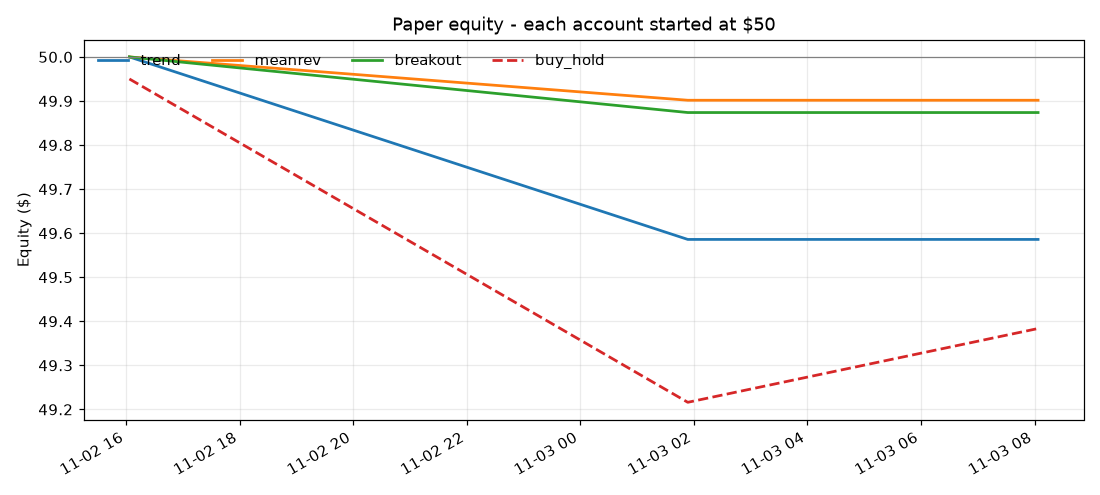
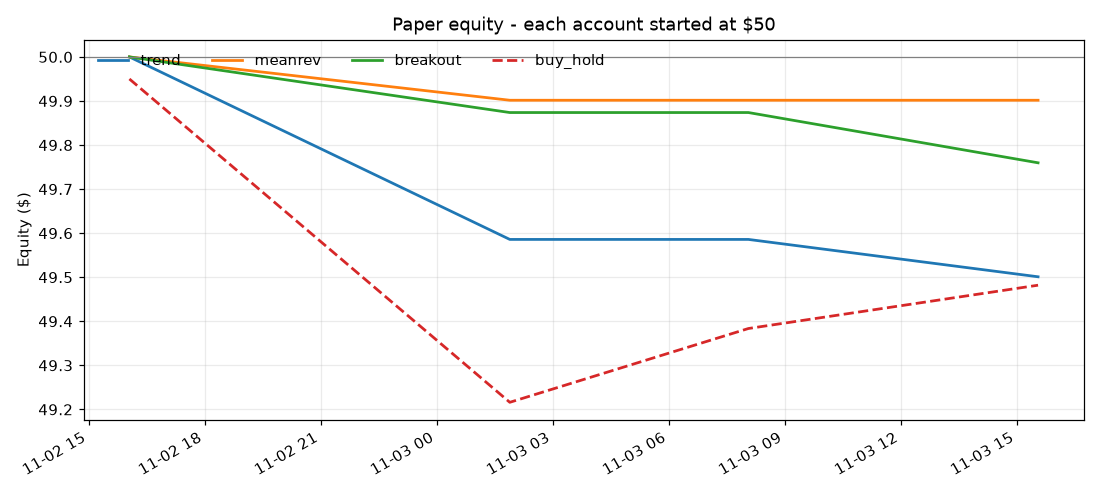
tick 10:03

diff --git a/REPORT.md b/REPORT.md
@@ -1,13 +1,13 @@
-# Crypto paper-trading trial (🟢 RUNNING - 32.0h left)
+# Crypto paper-trading trial (🟢 RUNNING - 24.5h left)
 
-Fake money, real binance_vision prices. Started **02 Nov 16:03 IST**, ends **04 Nov 16:03 IST**. Each strategy started with **$50**. Coins: BTC, ETH, SOL, XRP, DOGE on 15m candles. Fees 0.1%/side + 0.05% slippage included. Last update 03 Nov 08:03 IST (run #3).
+Fake money, real binance_vision prices. Started **02 Nov 16:03 IST**, ends **04 Nov 16:03 IST**. Each strategy started with **$50**. Coins: BTC, ETH, SOL, XRP, DOGE on 15m candles. Fees 0.1%/side + 0.05% slippage included. Last update 03 Nov 15:33 IST (run #4).
 
 | Account | Equity | P&L | Return | Trades | Win rate | Open |
 |---|---:|---:|---:|---:|---:|---:|
-| **trend** | $49.59 | $-0.41 | -0.83% | 3 | 0% | 0 |
+| **trend** | $49.50 | $-0.50 | -1.00% | 4 | 0% | 1 |
 | **meanrev** | $49.90 | $-0.10 | -0.20% | 1 | 0% | 0 |
-| **breakout** | $49.87 | $-0.13 | -0.25% | 1 | 0% | 0 |
-| *buy & hold (benchmark)* | $49.38 | $-0.62 | -1.23% | - | - | - |
+| **breakout** | $49.76 | $-0.24 | -0.48% | 2 | 0% | 0 |
+| *buy & hold (benchmark)* | $49.48 | $-0.52 | -1.04% | - | - | - |
 
 ![equity](equity.png)
 
@@ -19,12 +19,16 @@ Fake money, real binance_vision prices. Started **02 Nov 16:03 IST**, ends **04 
 
 ## Open positions
 
-None.
+| Strategy | Coin | Entry | Now | Stop | Target | Unrealized |
+|---|---|---:|---:|---:|---:|---:|
+| trend | XRP | 1.25633 | 1.2563 | 1.24988 | 1.26921 | $-0.017 |
 
 ## Last 25 closed trades
 
 | Strategy | Coin | In | Out | Entry | Exit | P&L | Why |
 |---|---|---|---|---:|---:|---:|---|
+| trend | XRP | 03 Nov 09:30 | 03 Nov 12:15 | 1.25243 | 1.24977 | $-0.068 (-0.41%) | EMA cross-down |
+| breakout | XRP | 03 Nov 10:00 | 03 Nov 10:45 | 1.25813 | 1.25201 | $-0.114 (-0.69%) | stop-loss |
 | trend | XRP | 02 Nov 19:15 | 02 Nov 19:45 | 1.26163 | 1.25246 | $-0.154 (-0.93%) | stop-loss |
 | breakout | XRP | 02 Nov 19:15 | 02 Nov 19:30 | 1.26163 | 1.25459 | $-0.126 (-0.76%) | stop-loss |
 | trend | XRP | 02 Nov 18:00 | 02 Nov 18:45 | 1.25423 | 1.24957 | $-0.095 (-0.57%) | EMA cross-down |
